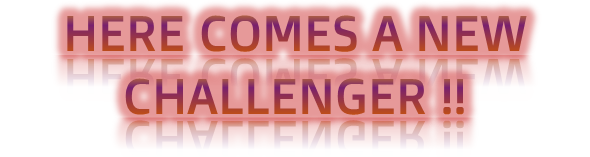
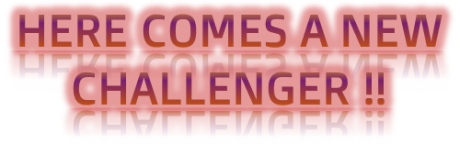
Add files via upload

diff --git a/index.html b/index.html
@@ -42,12 +42,42 @@
     const panel = document.getElementById("unitPanel");
     let currentSet = 'A';
     let currentSelection = null;
-      document.querySelectorAll('.selectableUnit').forEach(img => img.classList.remove('highlighted'));
     let boardMap = [];
     let history = [];
     let historyIndex = -1;
 
-    const unitSets = {
+    
+    const unlockConditions = [
+      {
+        id: "C_15",
+        triggerUnit: "A_14.png",
+        targetPositions: [ [6, 0], [6, 1], [6, 2] ],
+        requiredCountPerCell: 3,
+        cleared: false
+      }
+    ];
+
+    function checkUnlockOnPlacement() {
+      unlockConditions.forEach(cond => {
+        if (cond.cleared) return;
+        let count = 0;
+        cond.targetPositions.forEach(([col, row]) => {
+          const index = row * 7 + col;
+          const cell = boardMap[index];
+          if (!cell) return;
+          cell.units.forEach(u => {
+            if (u.src.endsWith(cond.triggerUnit)) count++;
+          });
+        });
+        if (count >= 9) {
+          cond.cleared = true;
+          triggerUnlock(cond.id, () => loadUnitPanel(currentSet));
+        }
+      });
+    }
+
+
+const unitSets = {
       A: Array.from({ length: 20 }, (_, i) => `A_${String(i+1).padStart(2, '0')}.png`),
       B: Array.from({ length: 20 }, (_, i) => `B_${String(i+1).padStart(2, '0')}.png`),
       C: Array.from({ length: 20 }, (_, i) => `C_${String(i+1).padStart(2, '0')}.png`)
@@ -71,7 +101,7 @@
     const excluded = new Set(["C_15.png", "C_16.png", "C_17.png", "C_18.png", "C_19.png", "C_20.png"]);
     unitSets[set].forEach((src, i) => {
       const filename = src.split('/').pop();
-      if (excluded.has(filename)) return;
+      if (excluded.has(filename) && !unlockConditions.some(c => c.id + ".png" === filename && c.cleared)) return;
 
         const img = document.createElement("img");
         img.src = src;
@@ -117,8 +147,7 @@
           };
           img.addEventListener("dblclick", () => {
             cell.units = cell.units.filter(u => u.src !== unit.src);
-            currentSelection = null;
-            document.querySelectorAll('.selectableUnit').forEach(img => img.classList.remove('highlighted'));
+            
             renderBoard();
             saveHistory();
           });
@@ -178,25 +207,23 @@
       }
 
       if (changed) {
+        checkUnlockOnPlacement();
         renderBoard();
         saveHistory();
       }
 
-      currentSelection = null;
-      document.querySelectorAll('.selectableUnit').forEach(img => img.classList.remove('highlighted'));
+      
     });
 
     document.getElementById("btnLeft").addEventListener("click", () => {
       currentSet = currentSet === 'A' ? 'C' : currentSet === 'B' ? 'A' : 'B';
       loadUnitPanel(currentSet);
-      currentSelection = null;
-      document.querySelectorAll('.selectableUnit').forEach(img => img.classList.remove('highlighted'));
+      
     });
     document.getElementById("btnRight").addEventListener("click", () => {
       currentSet = currentSet === 'A' ? 'B' : currentSet === 'B' ? 'C' : 'A';
       loadUnitPanel(currentSet);
-      currentSelection = null;
-      document.querySelectorAll('.selectableUnit').forEach(img => img.classList.remove('highlighted'));
+      
     });
     document.getElementById("btnUndo").addEventListener("click", () => {
       if (historyIndex > 0) {
@@ -222,6 +249,93 @@
     });
 
     loadUnitPanel(currentSet);
-  </script>
+  
+
+    function triggerUnlock(id, callback) {
+      const overlay = document.getElementById("darkOverlay");
+      const challenger = document.getElementById("newChallenger");
+      const effectImage = document.getElementById("effectImage");
+      document.body.classList.add("interaction-locked");
+
+      // 初期化
+      overlay.style.display = "block";
+      challenger.style.display = "none";
+      effectImage.style.display = "none";
+      challenger.style.opacity = 1;
+      effectImage.style.opacity = 1;
+
+      // 0～2秒：フラッシュ
+      let flashCount = 0;
+      const flashInterval = setInterval(() => {
+        overlay.style.backgroundColor = flashCount % 2 === 0 ? "rgba(255, 255, 255, 0.8)" : "rgba(0, 0, 0, 0.5)";
+        flashCount++;
+        if (flashCount >= 4) clearInterval(flashInterval);
+      }, 500);
+
+      // 6秒後：NewChallengerズームイン
+      setTimeout(() => {
+        
+        const boardImg = document.getElementById("boardImg");
+        const boardRect = boardImg.getBoundingClientRect();
+        const boardCenterY = boardRect.top + boardRect.height / 2 + window.scrollY;
+        challenger.style.top = boardCenterY + "px";
+
+        challenger.style.display = "block";
+        challenger.style.transform = "translate(-50%, -50%) scale(0)";
+        challenger.style.transition = "transform 3s ease-in-out, opacity 3s";
+        challenger.style.opacity = 0;
+        setTimeout(() => {
+          challenger.style.transform = "translate(-50%, -50%) scale(0.75)";
+          challenger.style.opacity = 1;
+        }, 100);
+      }, 6000);
+
+      // 9秒後：NewChallenger点滅
+      setTimeout(() => {
+        let blink = true;
+        const blinkInterval = setInterval(() => {
+          challenger.style.opacity = blink ? "0.2" : "1.0";
+          blink = !blink;
+        }, 300);
+        setTimeout(() => {
+          clearInterval(blinkInterval);
+          challenger.style.transition = "opacity 2s";
+          challenger.style.opacity = 0;
+        }, 3000);
+      }, 9000);
+
+      // 12秒後：Effect表示
+      setTimeout(() => {
+        effectImage.src = id + "_Efect.png";
+        effectImage.style.display = "block";
+        effectImage.style.opacity = 0;
+        effectImage.style.transition = "opacity 2s";
+        setTimeout(() => {
+          effectImage.style.opacity = 1;
+        }, 10);
+      }, 12000);
+
+      // 17秒後：Effectフェードアウト
+      setTimeout(() => {
+        effectImage.style.transition = "opacity 3s";
+        effectImage.style.opacity = 0;
+        setTimeout(() => {
+          effectImage.style.display = "none";
+          overlay.style.display = "none";
+          document.body.classList.remove("interaction-locked");
+          // DOMから演出画像を削除
+    document.getElementById("newChallenger")?.remove();
+    document.getElementById("effectImage")?.remove();
+    if (callback) callback();
+        }, 3000);
+      }, 17000);
+    }
+
+</script>
+
+  <div id="darkOverlay" style="position:fixed;top:0;left:0;width:100%;height:100%;background-color:black;z-index:9999;display:none;"></div>
+  <img id="newChallenger" src="NewChallenger.png" style="position:fixed;top:calc(50% - 100px);left:50%;transform:translate(-50%,-50%) scale(0.75);z-index:10000;display:none;">
+  <img id="effectImage" style="position:fixed;top:0px;left:50%;transform:translateX(-50%) scale(0.75);z-index:10001;display:none;">
+
 </body>
 </html>
